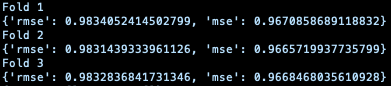
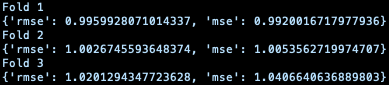
finish up

diff --git a/main/visualization/format.py b/main/visualization/format.py
@@ -1,32 +1,32 @@
 import pandas as pd
 
-reg = pd.read_csv("../csv/regmeasures.csv")
-sgd = pd.read_csv("../csv/sgdmeasures.csv")
+reg = pd.read_csv("regmeasures.csv")
+sgd = pd.read_csv("sgdmeasures.csv")
 
 print(reg)
 rmse = []
-mae = []
+mse = []
 for x in reg["rmse"]:
     rmse.append((x, "reg"))
-for x in reg["mae"]:
-    mae.append((x, "reg"))
+for x in reg["mse"]:
+    mse.append((x, "reg"))
 for x in sgd["rmse"]:
     rmse.append((x, "sgd"))
-for x in sgd["mae"]:
-    mae.append((x, "sgd"))
+for x in sgd["mse"]:
+    mse.append((x, "sgd"))
 
 # rmse = dict()
-# mae = dict()
+# mse = dict()
 # rmse["reg"] = regrmse
 # rmse["sgd"] = sgdrmse
-# mae["reg"] = regmae
-# mae["sgd"] = sgdmae
-fold = [1, 2, 3, 4, 5, 1, 2, 3, 4, 5]
+# mse["reg"] = regmse
+# mse["sgd"] = sgdmse
+fold = [1, 2, 3, 1, 2, 3]
 rmse = pd.DataFrame(rmse, columns=["error", "type"])
-mae = pd.DataFrame(mae, columns=["error", "type"])
+mse = pd.DataFrame(mse, columns=["error", "type"])
 rmse["fold"] = fold
-mae["fold"] = fold
+mse["fold"] = fold
 print(rmse)
 
-rmse.to_csv("../csv/rmse.csv", index=False)
-mae.to_csv("../csv/mae.csv", index=False)
+rmse.to_csv("rmse.csv", index=False)
+mse.to_csv("mse.csv", index=False)
